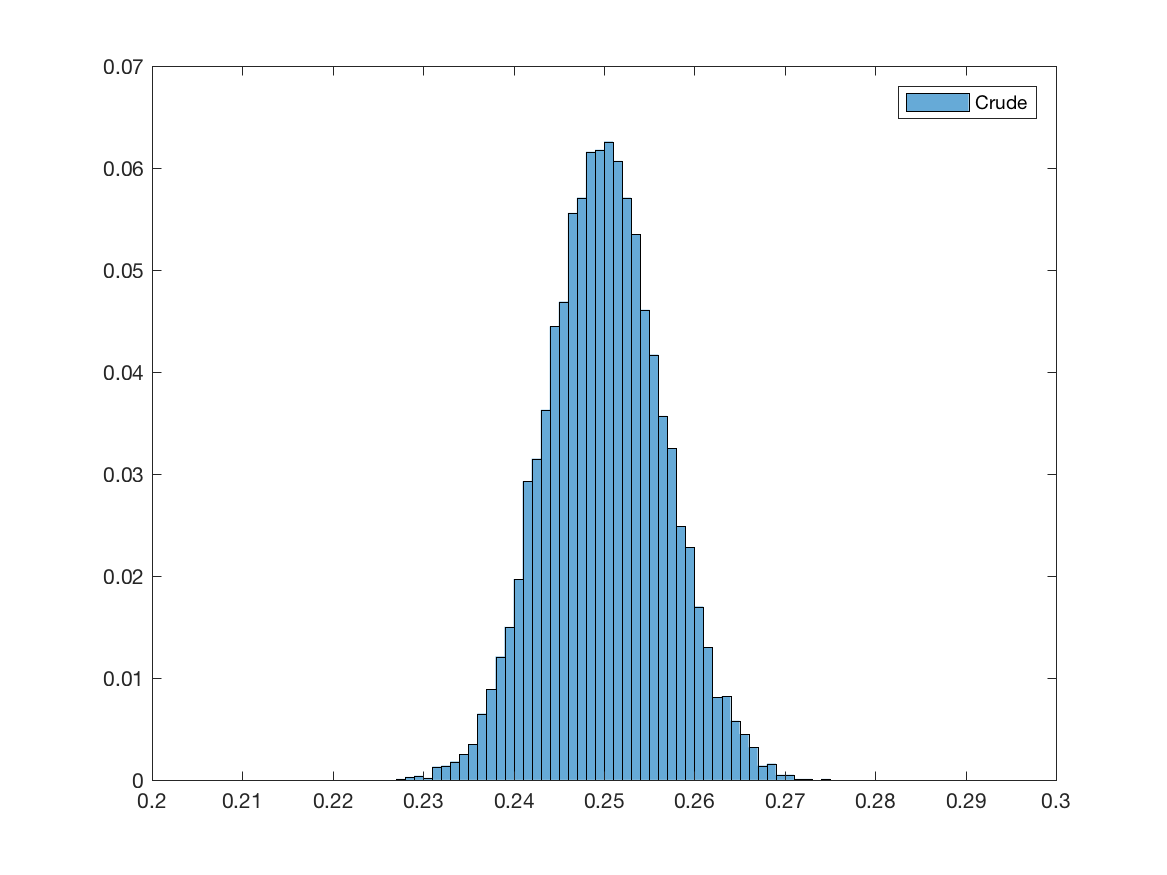
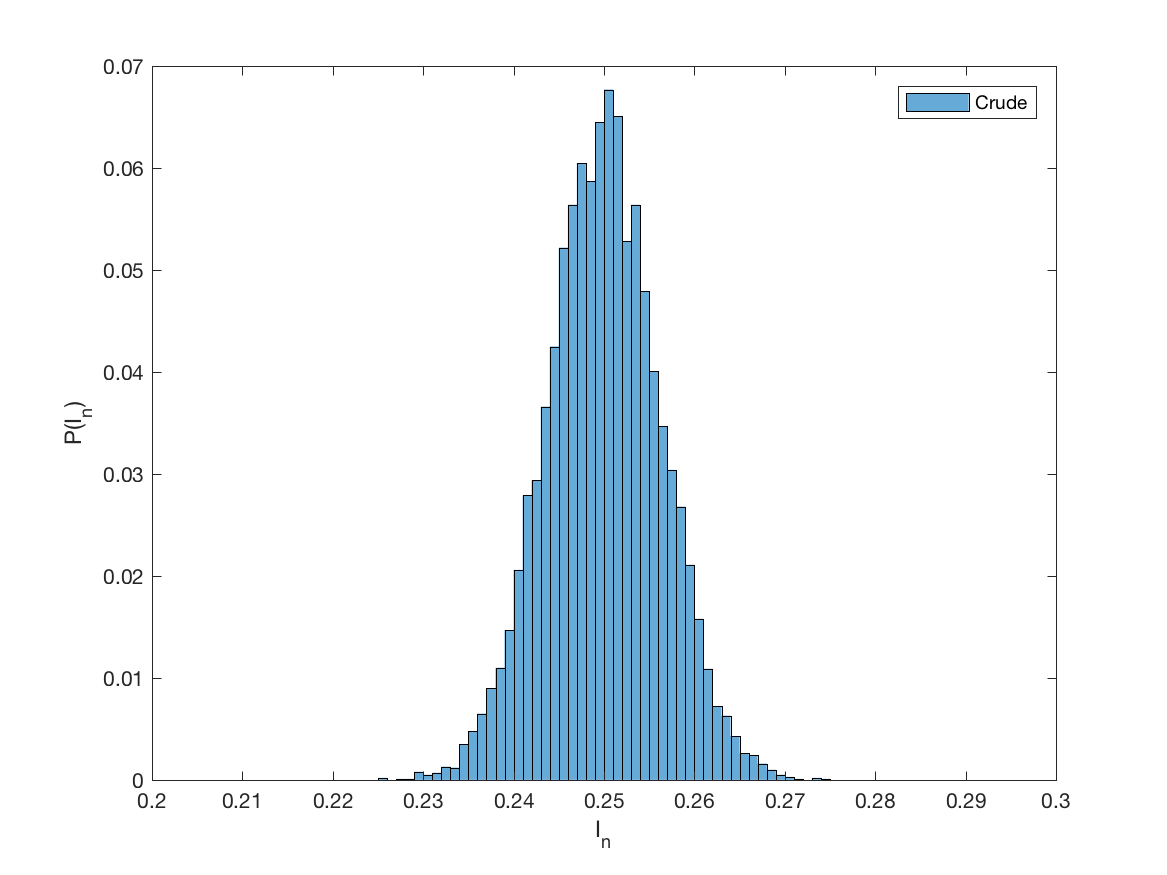
changed picture file names

diff --git a/methods_comparison.m b/methods_comparison.m
@@ -43,7 +43,7 @@ results = [
     {stratified_custom_window_results, 'Stratified sampling - custom window'};
     {importance_results, 'Importance sampling'};
     {anthitetic_results, 'Anthitetic'};
-    ];
+];
 
 for i=1:length(results)
     figure1 = figure;
@@ -51,5 +51,7 @@ for i=1:length(results)
     histogram(results{i,1},'DisplayName',results{i,2},'Normalization','probability');
     xlim([0.2 0.3]);
     legend(axes1,'show');
+    xlabel('I_n');
+    ylabel('P(I_n)');
     saveas(figure1,[results{i,2},'.png'])
 end
